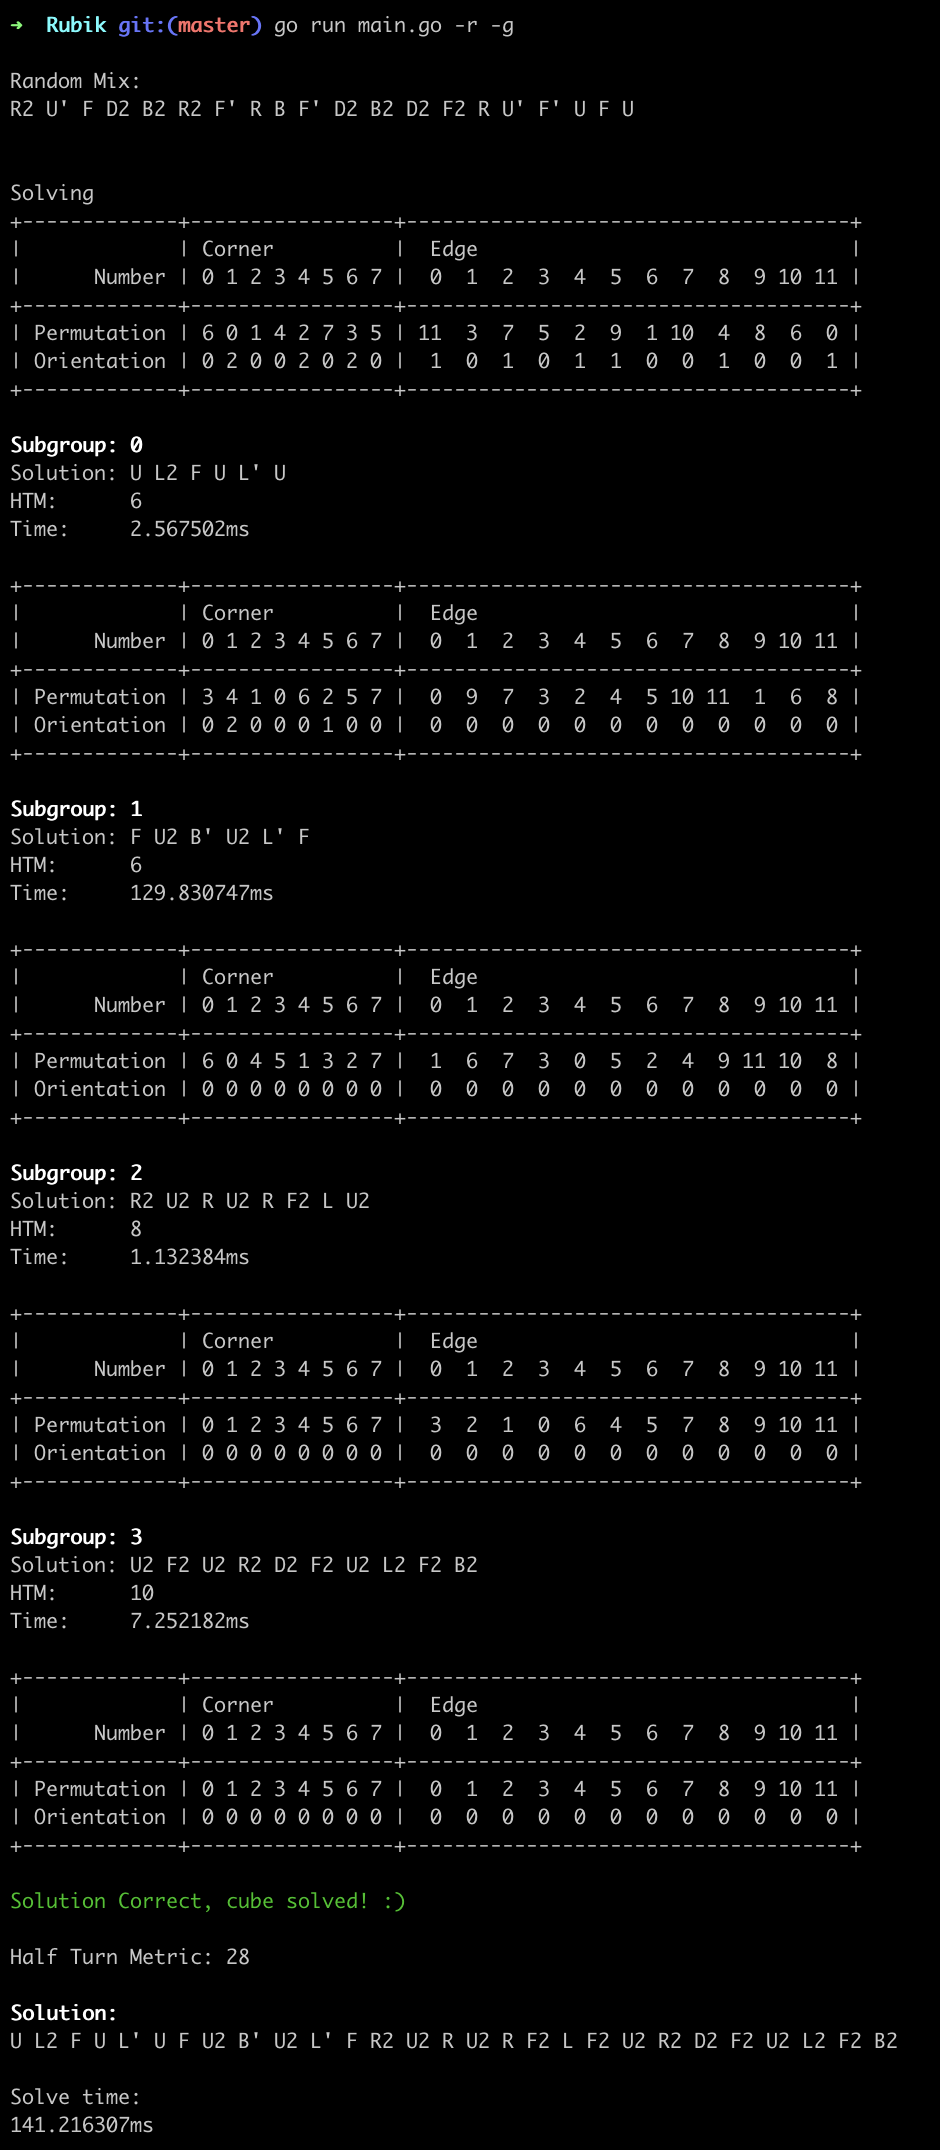
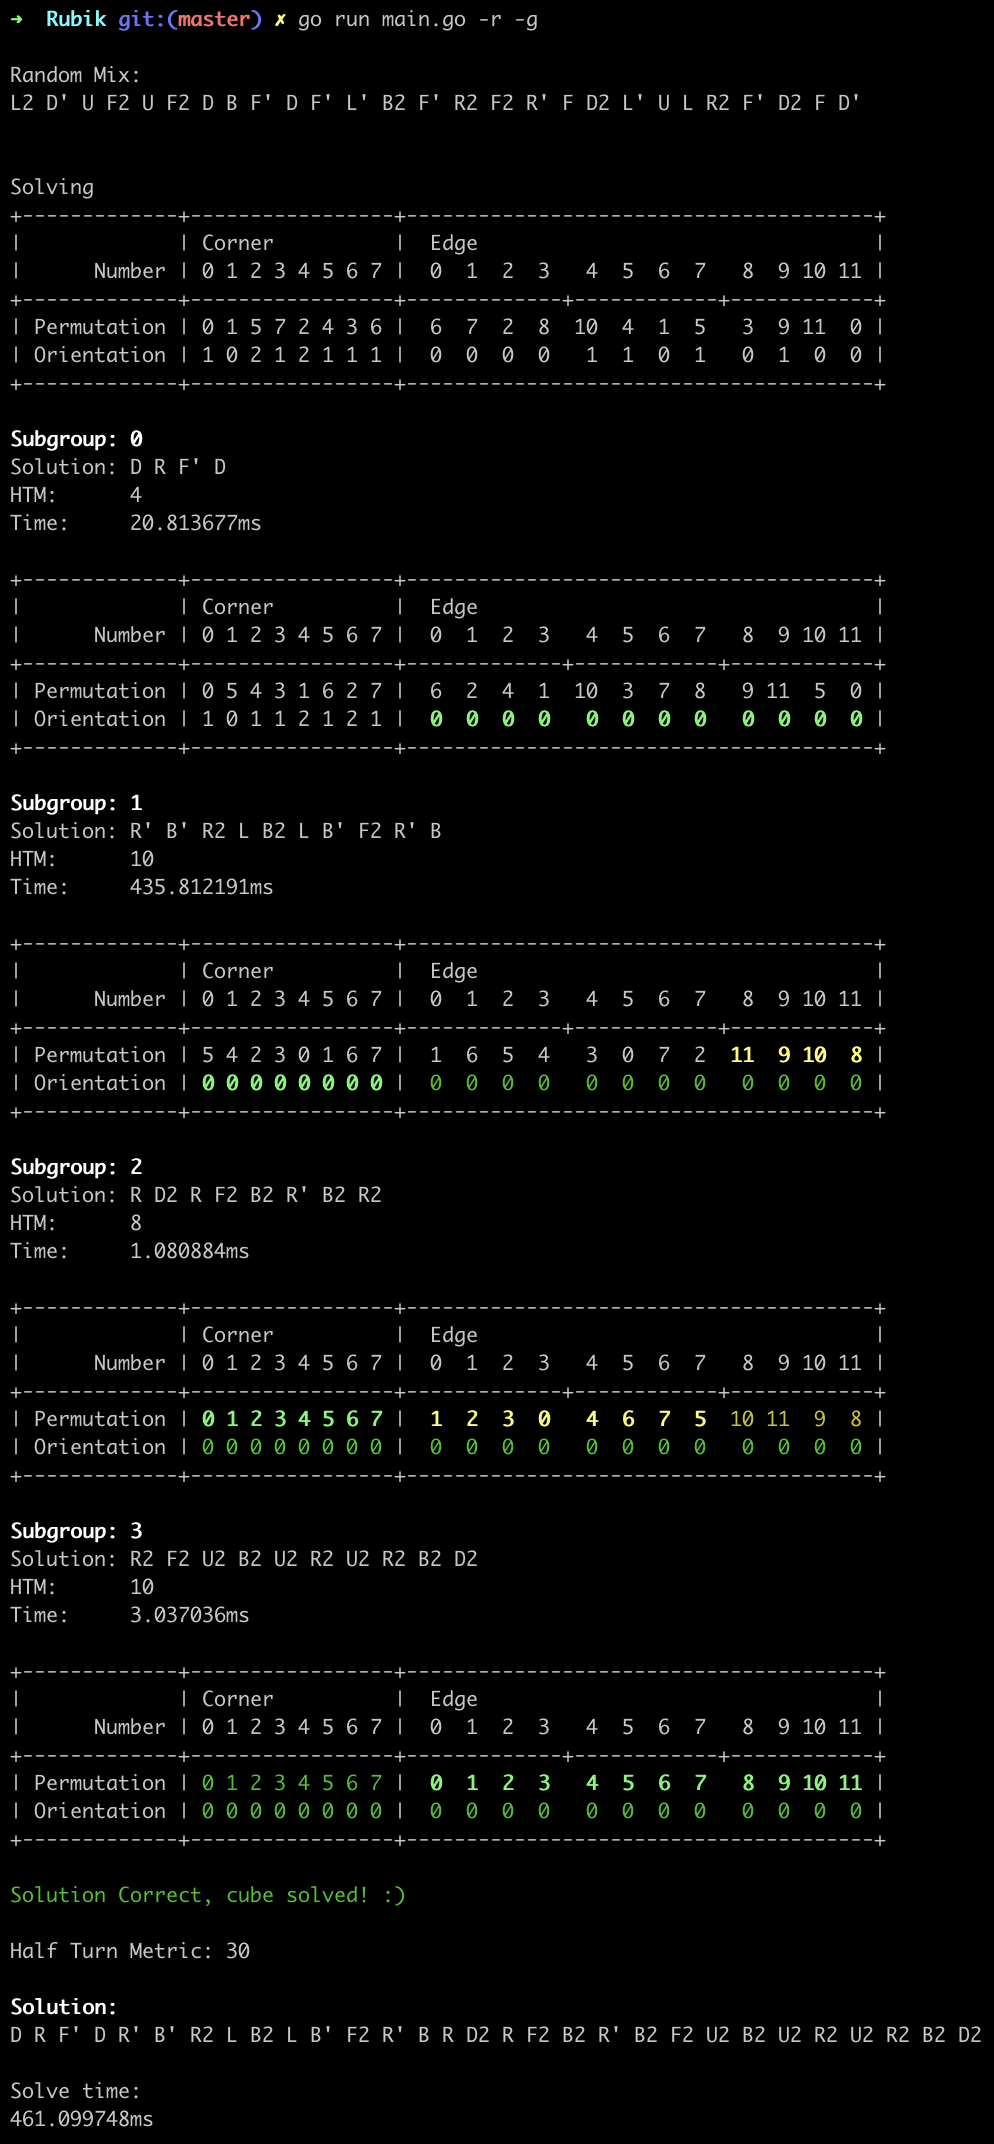
refacto/group prints color

diff --git a/src/print.go b/src/print.go
@@ -40,79 +40,49 @@ func printUsage() {
 	os.Exit(1)
 }
 
-// dumpCube prints cube state
-func dumpCube(cube *cepo) {
-	fmt.Printf("\n+-------------+-----------------+-------------------------------------+")
-	fmt.Printf("\n|             | Corner          |  Edge                               |\n")
-	fmt.Printf("|      Number | ")
-	for i := range cube.cP {
-		fmt.Printf("%v ", i)
-	}
-	fmt.Printf("| ")
-	for i := range cube.eP {
-		fmt.Printf("%2v ", i)
-	}
-	fmt.Printf("|")
-	fmt.Printf("\n+-------------+-----------------+-------------------------------------+\n")
-	fmt.Printf("| Permutation | ")
-	for _, cP := range cube.cP {
-		fmt.Printf("%v ", cP)
-	}
-	fmt.Printf("| ")
-	for _, eP := range cube.eP {
-		fmt.Printf("%2v ", eP)
-	}
-	fmt.Printf("|")
-
-	fmt.Printf("\n| Orientation | ")
-	for _, cO := range cube.cO {
-		fmt.Printf("%v ", cO)
-	}
-	fmt.Printf("| ")
-	for _, eO := range cube.eO {
-		fmt.Printf("%2v ", eO)
-	}
-	fmt.Printf("|")
-	fmt.Printf("\n+-------------+-----------------+-------------------------------------+\n")
-}
-
-// dumpCubeGroup prints cube state for group
-func dumpCubeGroup(cube *cepo, group int8) {
-	fmt.Printf("\n+-------------+-----------------+-------------------------------------+")
-	fmt.Printf("\n|             | Corner          |  Edge                               |\n")
-	fmt.Printf("|      Number | ")
-	for i := range cube.cP {
-		fmt.Printf("%v ", i)
-	}
-	fmt.Printf("| ")
-	for i := range cube.eP {
-		fmt.Printf("%2v ", i)
-	}
-	fmt.Printf("|")
-	fmt.Printf("\n+-------------+-----------------+-------------------------------------+\n")
+// dumpCube prints cube state, & highlights features solved in given subgroup (-1 = no group)
+func dumpCube(cube *cepo, group int8) {
+	fmt.Printf("\n")
+	fmt.Printf("+-------------+-----------------+---------------------------------------+\n")
+	fmt.Printf("|             | Corner          |  Edge                                 |\n")
+	fmt.Printf("|      Number | 0 1 2 3 4 5 6 7 |  0  1  2  3   4  5  6  7   8  9 10 11 |\n")
+	fmt.Printf("+-------------+-----------------+-------------+------------+------------+\n")
 	fmt.Printf("| Permutation | ")
 	// Corner Permutation
 	if group == 2 {
+		fmt.Printf("%v", Bright)
+	}
+	if group >= 2 {
 		fmt.Printf("%v", Green)
 	}
 	for _, cP := range cube.cP {
 		fmt.Printf("%v ", cP)
 	}
 	fmt.Printf("%v| ", Reset)
+
 	// Edge Permutation
 	for i, eP := range cube.eP {
+		if i == 4 || i == 8 {
+			fmt.Printf(" ")
+		}
+		if group == 1 && i == 8 {
+			fmt.Printf("%v", Bright)
+		}
 		if group == 1 && i == 8 {
 			fmt.Printf("%v", Yellow)
 		}
 		if group == 2 {
 			if i == 0 {
+				fmt.Printf("%v", Bright)
 				fmt.Printf("%v", Yellow)
 			}
 			if i == 8 {
 				fmt.Printf("%v", Reset)
+				fmt.Printf("%v", Yellow)
 			}
 		}
 		if group == 3 && i == 0 {
+			fmt.Printf("%v", Bright)
 			fmt.Printf("%v", Green)
 		}
 		fmt.Printf("%2v ", eP)
@@ -122,19 +92,29 @@ func dumpCubeGroup(cube *cepo, group int8) {
 	fmt.Printf("\n| Orientation | ")
 	// Corner Orientation
 	if group == 1 {
+		fmt.Printf("%v", Bright)
+	}
+	if group >= 1 {
 		fmt.Printf("%v", Green)
 	}
 	for _, cO := range cube.cO {
 		fmt.Printf("%v ", cO)
 	}
 	fmt.Printf("%v| ", Reset)
+
 	// Edge Orientation
 	if group == 0 {
+		fmt.Printf("%v", Bright)
+	}
+	if group >= 0 {
 		fmt.Printf("%v", Green)
 	}
-	for _, eO := range cube.eO {
+	for i, eO := range cube.eO {
+		if i == 4 || i == 8 {
+			fmt.Printf(" ")
+		}
 		fmt.Printf("%2v ", eO)
 	}
 	fmt.Printf("%v|", Reset)
-	fmt.Printf("\n+-------------+-----------------+-------------------------------------+\n")
+	fmt.Printf("\n+-------------+-----------------+---------------------------------------+\n")
 }

diff --git a/src/solve.go b/src/solve.go
@@ -122,7 +122,7 @@ func idaStar(cube *cepo, subgroup int8, tables *tables) string {
 func solve(cube *cepo, tables *tables, group bool) string {
 	fmt.Printf("\nSolving")
 	if group {
-		dumpCube(cube)
+		dumpCube(cube, -1)
 	}
 	var solution string
 	for subgroup := isSubgroup(cube); subgroup < 4; subgroup++ {
@@ -138,7 +138,7 @@ func solve(cube *cepo, tables *tables, group bool) string {
 			fmt.Printf("Solution: %v\n", solutionPart)
 			fmt.Printf("HTM:      %v\n", halfTurnMetric(solutionPart))
 			fmt.Printf("Time:     %v\n", elapsed)
-			dumpCubeGroup(cube, subgroup)
+			dumpCube(cube, subgroup)
 		} else {
 			fmt.Printf(".")
 		}

diff --git a/src/spin.go b/src/spin.go
@@ -233,6 +233,6 @@ func spin(mix string, cube *cepo) {
 		} else {
 			errorExit("bad input")
 		}
-		// dumpCube(cube)	//	debug tool
+		// dumpCube(cube, -1)	//	debug tool
 	}
 }
